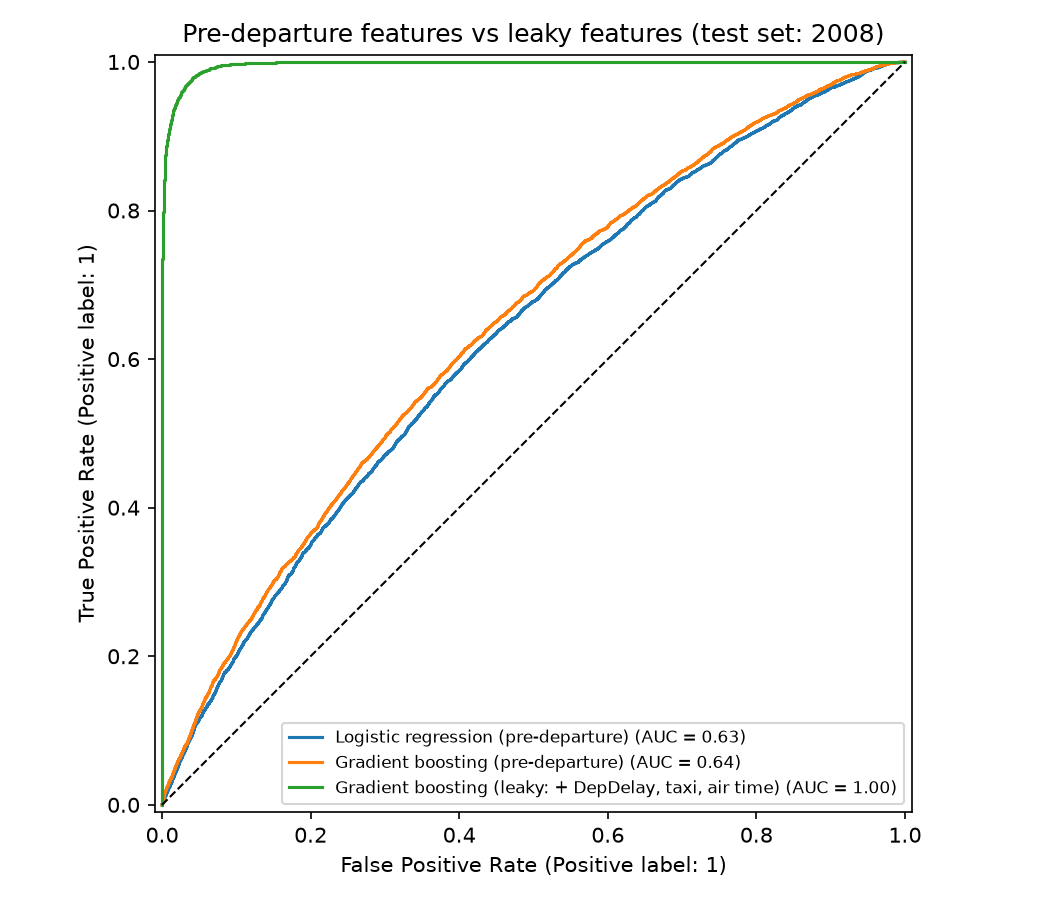
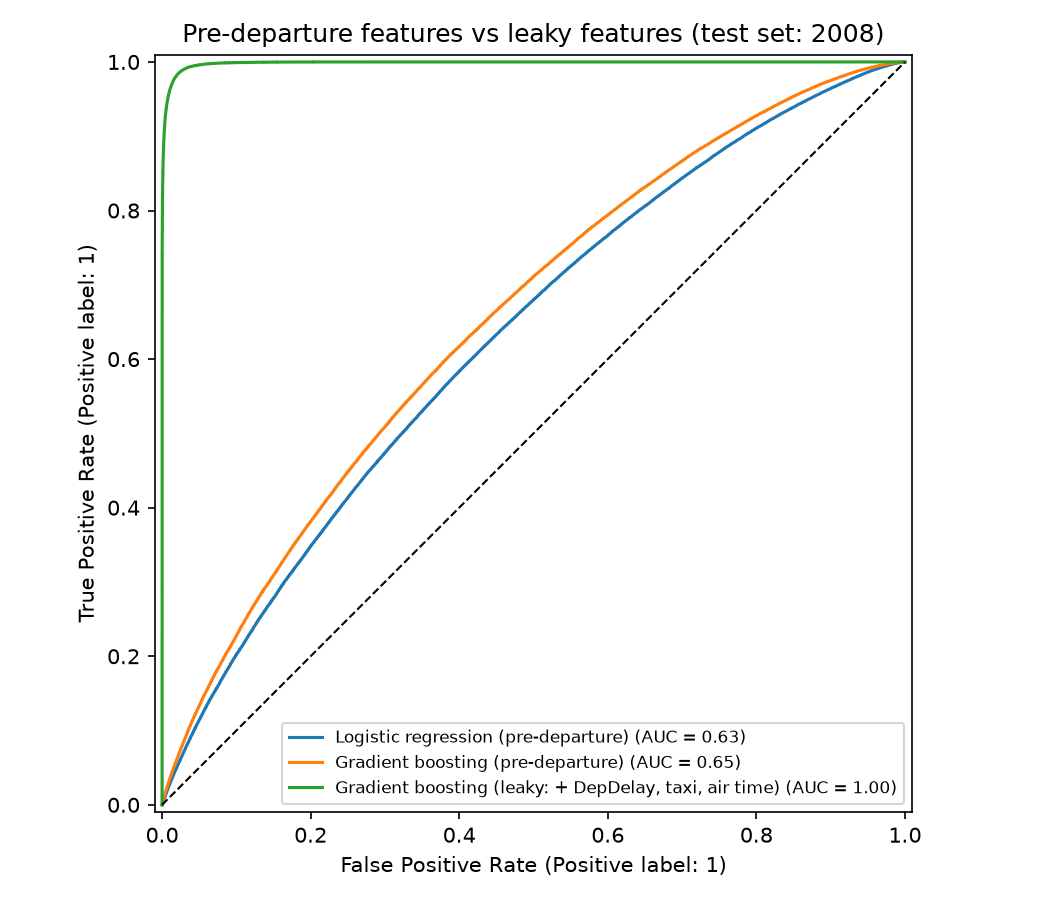
Rerun the timetable model on 10% and 30% samples

diff --git a/README.md b/README.md
@@ -12,7 +12,7 @@ I analysed 31 million US domestic flights (2004–2008) in Python, R and SQL. Th
 
 - **Data:** 31 million flights, loaded into a SQLite database.
 - **Best time to fly:** the morning. 15.6% of flights scheduled to leave in the morning are late, against 30.9% in the evening.
-- **The model:** the first version scored 0.93–0.98 AUC, which was too good to be true. It used the departure delay to predict the arrival delay. With only the timetable, the honest score is **0.642**. Predicting 2 hours before departure, using only what has already happened that day, it rises to **0.751**.
+- **The model:** the first version scored 0.93–0.98 AUC, which was too good to be true. It used the departure delay to predict the arrival delay. With only the timetable, the honest score is **0.654**, from a model that learned from 8.5 million flights. Predicting 2 hours before departure, using only what has already happened that day, it rises to **0.751** (so far measured on a 1% sample).
 - **What it's good for:** 2 hours out, the 10% of flights the model rates riskiest are late 72% of the time, against 25.5% for all 2008 flights. An airline could send standby crews and spare gates to that list.
 - **The lesson:** always check *when* each piece of information becomes known.
 
@@ -84,17 +84,23 @@ I tuned them with grid search in scikit-learn and compared them with cross-valid
 
 It learns from 2004–2007 flights and is tested on 2008 flights, as a real forecast would be. The leaky version is kept alongside so you can see the gap.
 
-| Model | Information used | Score on 2008 flights (AUC) |
-|---|---|---|
-| Logistic regression | Before departure only | 0.628 |
-| Gradient boosting | Before departure only | **0.642** |
-| Gradient boosting | Plus departure delay, taxi and air time (leaky) | 0.996 |
+| Model | Information used | AUC, 1% sample | AUC, 10% sample | AUC, 30% sample |
+|---|---|---|---|---|
+| Logistic regression | Before departure only | 0.628 | 0.628 | 0.629 |
+| Gradient boosting | Before departure only | 0.642 | 0.650 | **0.654** |
+| Gradient boosting | Plus departure delay, taxi and air time (leaky) | 0.996 | 0.998 | 0.998 |
+| | Flights learned from (2004–2007) | 282,717 | 2,824,284 | 8,477,419 |
+| | Flights tested on (2008) | 23,363 | 232,019 | 695,298 |
 
-These models learned from a 1% sample: 282,717 flights from 2004–2007. They were tested on 23,363 flights from 2008. The 2008 data only covers January to April. (An earlier version of this README said 0.627, 0.641 and 0.997. Those came from a random sample that could not be repeated. The script now picks the same sample every time, and these are its numbers.)
+The 2008 data only covers January to April. Each sample is a fixed share of all flights, picked the same way every time (`python src/model_v2.py --pct 30`). All three runs are saved in `results/model_comparison_v2_by_sample.csv`. 30% is the largest sample that fits in my laptop's memory: it peaked at 14.7 GB and took about 8 minutes. The chart below is from the 30% run.
+
+**More data helped gradient boosting a little (0.642 → 0.654) and logistic regression not at all.** Gradient boosting can pick up patterns for rare airports and routes, and more flights give it enough examples of each. Logistic regression gives each airport, airline and hour one fixed weight, and 1% of the data was already enough to set those. (An earlier version of this README said 0.627, 0.641 and 0.997. Those came from a random sample that could not be repeated.)
+
+Steps 4 to 7 below still use the 1% sample, so they compare against the 1% timetable score of 0.642.
 
 ![ROC curves, v2: pre-departure vs leaky features](images/roc_curve_v2.png)
 
-**What this means.** Predicting a delay from the timetable alone is hard. A score of about 0.64 is a modest but real signal. Adding the departure delay pushes it to 0.997, and that jump is the leakage. It is why the coursework scores were too good to be true.
+**What this means.** Predicting a delay from the timetable alone is hard. A score of about 0.65 is a modest but real signal. Adding the departure delay pushes it to 0.998, and that jump is the leakage. It is why the coursework scores were too good to be true.
 
 **Step 4: can the honest model do better?** (`src/model_v3.py`). I added three more things an airline knows before departure:
 
@@ -121,7 +127,7 @@ Same 1% sample and same 2008 test flights as Step 3. Across all 2008 test flight
 - **The model beats the benchmark clearly.** Its riskiest 10% of flights are late 44% of the time: 1.7 times the average. Ranking by route history alone gives 35%.
 - **The new features did not help gradient boosting.** It already knows the airport, route, airline and hour, so it had worked out most of this for itself. They did help the simpler logistic regression (0.628 → 0.633).
 - **More data helps a little, not a lot.** With a 5% sample (1,412,072 training flights), gradient boosting scored 0.647 with or without the new features (`python src/model_v3.py --pct 5`).
-- **The timetable alone has a ceiling of about 0.65.** Most delays come from things that happen on the day, like weather and late incoming planes. Getting past that ceiling means predicting closer to departure, using what has already gone wrong that day.
+- **The timetable alone has a ceiling of about 0.65.** Even 8.5 million training flights only reach 0.654 (Step 3). Most delays come from things that happen on the day, like weather and late incoming planes. Getting past that ceiling means predicting closer to departure, using what has already gone wrong that day.
 
 **Step 5: predicting 2 hours before departure** (`src/model_v4.py`). An airline re-plans crews and gates a couple of hours ahead, and by then it knows more. I moved the prediction to 2 hours before the scheduled departure and added only what is known at that moment:
 
